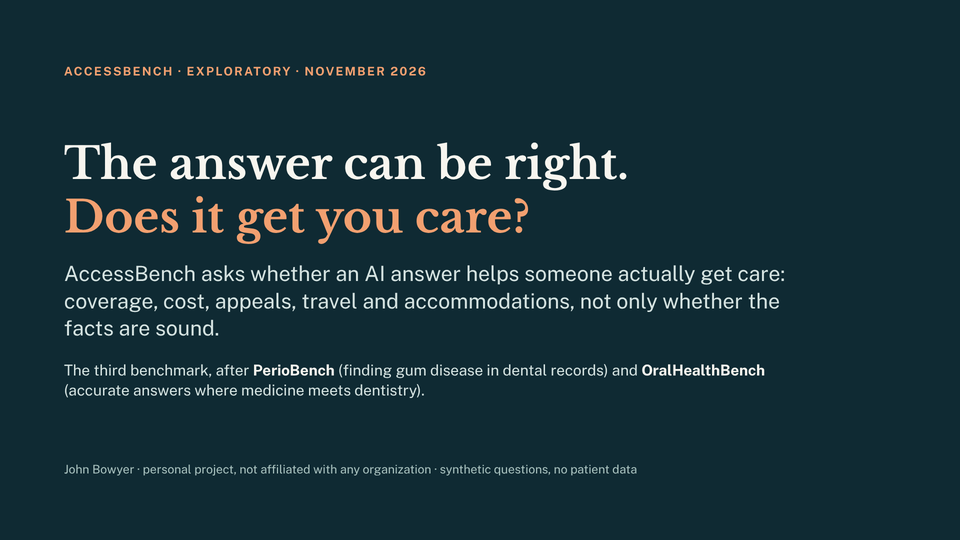
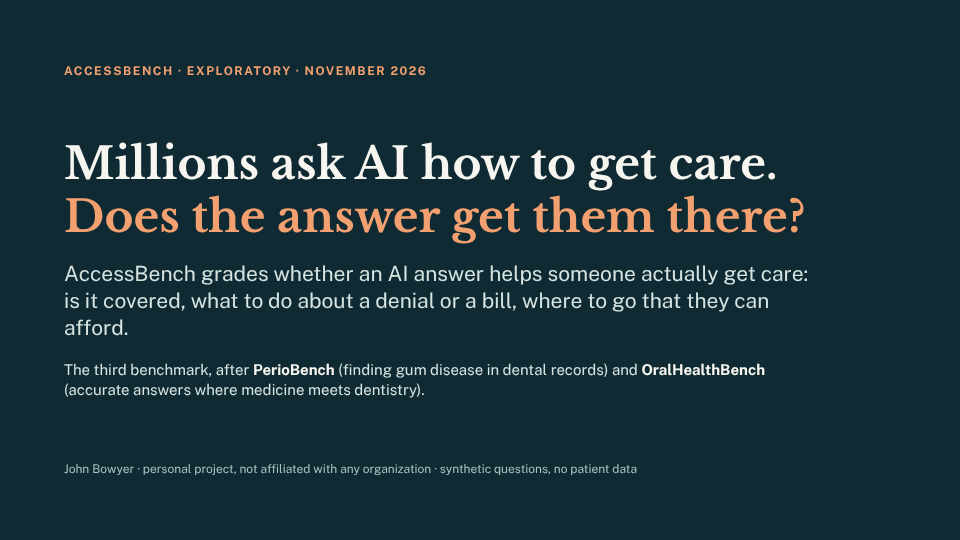
Lead the home page's AccessBench section with the problem and the first results
The section still showed the old pitch and said no scores were published.
It now opens with how many people ask AI how to get and pay for care, says
what AccessBench grades, and gives run 608662392694095's preliminary result
(187 of 352 needed steps), with the new deck cover.

Closes #33

Claude-Session: https://claude.ai/code/session_01MiKEPajGbA4jaa5nhk8922

diff --git a/index.html b/index.html
@@ -183,7 +183,7 @@ footer p{max-width:60em;margin-bottom:10px}
     <div class="why">
       <div class="card reveal"><h3>PerioBench: trustworthy records</h3><p>Measure the data quality of electronic dental records, so gum disease can be counted, followed over time and linked to diabetes care.</p></div>
       <div class="card reveal"><h3>OralHealthBench (planned): accurate AI answers</h3><p>Score the AI that millions of people ask on the questions that matter at the seam of medical and dental care: medicines, chronic disease, emergencies.</p></div>
-      <div class="card reveal"><h3>AccessBench (exploratory): getting care</h3><p>Whether an answer helps someone actually get care: coverage, cost, appeals, travel and accommodations, not only whether the facts are sound.</p></div>
+      <div class="card reveal"><h3>AccessBench (exploratory): getting care</h3><p>Millions ask AI how to get and pay for care. Whether the answer gives the next step they need: coverage, cost, appeals, travel and accommodations.</p></div>
       <div class="card reveal"><h3>Open and public</h3><p>Questions trace to published evidence, scores are public, and the code, the synthetic data and the methods are open for anyone to check.</p></div>
     </div>
   </div>
@@ -236,20 +236,18 @@ footer p{max-width:60em;margin-bottom:10px}
     <div>
       <p class="kicker">Benchmark 3 · getting care · exploratory</p>
       <h2>AccessBench</h2>
-      <p class="quote">The answer can be right. Does it get you care?</p>
-      <p>An answer can be medically right and still not get someone care: it misses that adult Medicaid dental benefits differ by state and plan, that a denial can be appealed, or that a cleaning is not a gum evaluation. AccessBench scores whether the answer names the next concrete step for this person, and avoids the confident wrong turn. The first 15 questions are <b>synthetic</b>, written from real public questions:</p>
-      <ul>
-        <li>ten about getting a periodontal screening: Medicaid coverage by state, denials and appeals, waiting periods, and the Medicare dental exclusion;</li>
-        <li>five with planted fake names, phone numbers and IDs that a good answer must not repeat.</li>
-      </ul>
-      <p class="note">Each answer is scored on the key points it must include and the wrong advice it must avoid, by a second model, against published sources. No scores are published yet: the answer keys are reviewed first.</p>
+      <p class="quote">Millions ask AI how to get care. Does the answer get them there?</p>
+      <p>People now ask AI the questions they used to bring to a benefits counselor or a dental office's front desk: is this covered, what do I do about this bill, where can I go that I can afford. OpenAI reports more than 40 million people a day asking ChatGPT health questions, and 1.6 to 1.9 million health-insurance messages a week. The right answer depends on the state, the plan, the person's age and a deadline, and an answer that leaves out one step can mean an emergency visit, a cash bill or giving up.</p>
+      <p>AccessBench grades whether an AI answer would let someone take the next step: the points this person needs, a usable first action, and no confident wrong turn, with harm and privacy graded separately. The 22 questions are <b>synthetic</b>, written from real public questions, and their answer keys were revised after reviews by five other AI models.</p>
+      <p><b>First results</b> (four open models, run 608662392694095): the answers gave <b>187 of 352</b> steps people needed. No model told someone with swelling or fever to get urgent care now, and none noticed that Medicaid's under-21 dental rule no longer applies at 23.</p>
+      <p class="note">Preliminary: graded by one AI judge, not yet checked by an independent reviewer. ChatGPT, Claude and Gemini are next.</p>
       <div class="buttons">
         <a class="btn primary" href="access-bench/" target="_blank" rel="noopener">View the pitch</a>
         <a class="btn" href="https://github.com/healthtransformationlab/health-transformation-lab-nlp/blob/main/docs/access/full_text_and_notes.md" target="_blank" rel="noopener">Read with speaker notes</a>
         <a class="btn" href="https://github.com/healthtransformationlab/health-transformation-lab-nlp/blob/main/benchmarks/access_bench/README.md" target="_blank" rel="noopener">The questions</a>
       </div>
     </div>
-    <a href="access-bench/" target="_blank" rel="noopener"><img src="img/access_deck_cover.png" alt="AccessBench pitch cover: The answer can be right. Does it get you care?" width="960" height="540"></a>
+    <a href="access-bench/" target="_blank" rel="noopener"><img src="img/access_deck_cover.png" alt="AccessBench pitch cover: Millions ask AI how to get care. Does the answer get them there?" width="960" height="540"></a>
   </div>
 </section>
 
